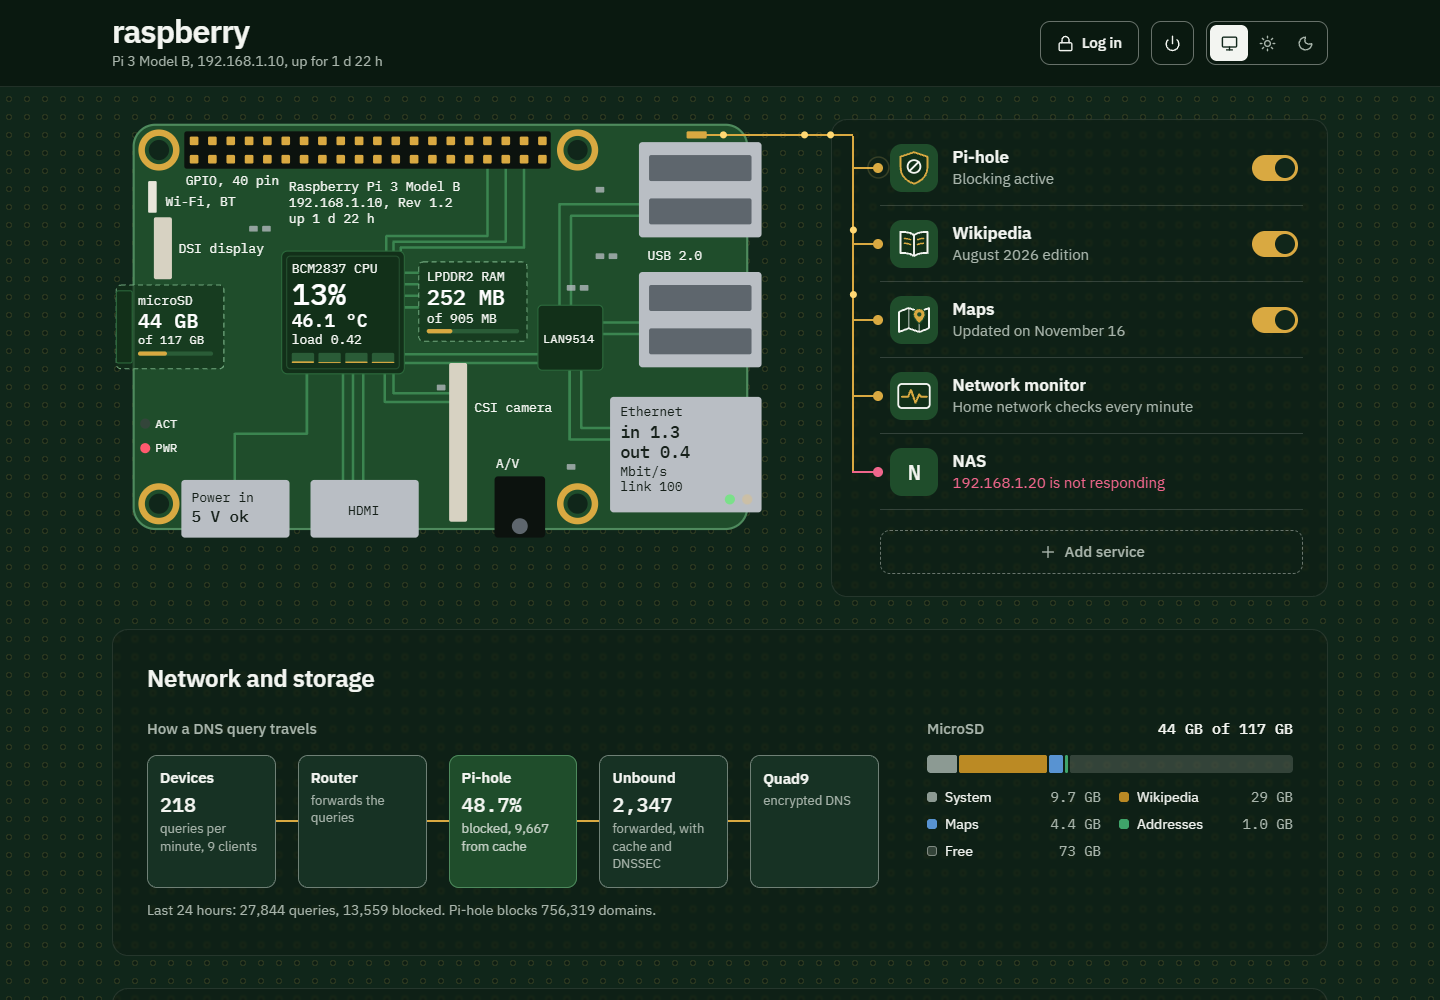
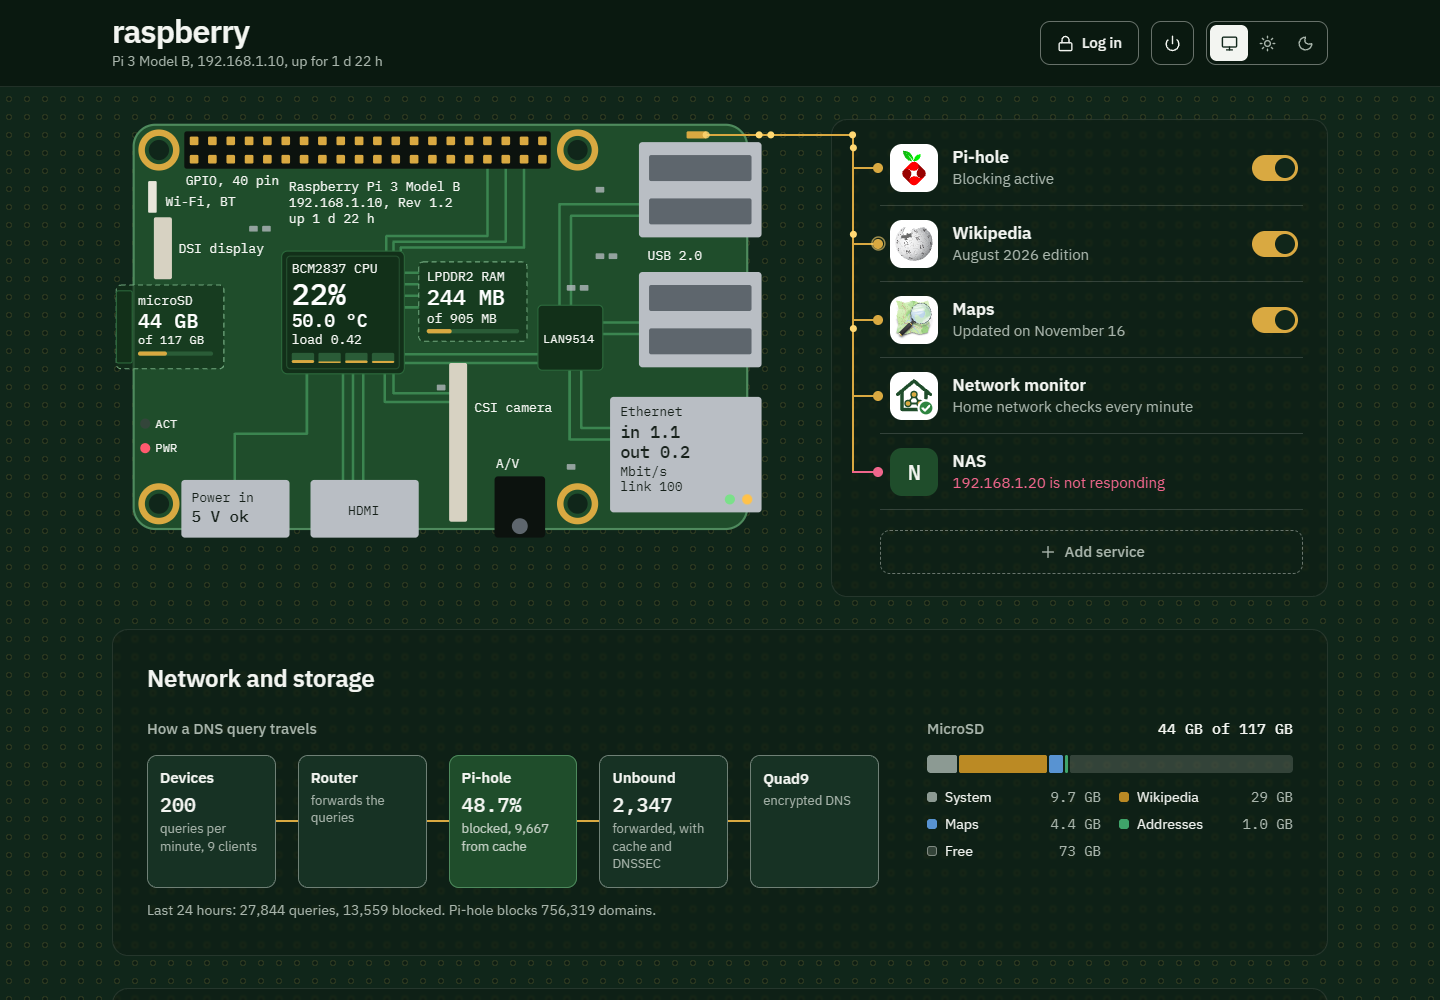
feat(hub): the detailed Raspberry Pi board on phones too (#59)
On phones the home page showed a compact board with five readings. It now
shows the detailed board of the desktop, turned vertical like on the
hardware page, and still opens the hardware page when tapped.

Only the CPU and temperature numbers are drawn again while they glide to a
new value, not the whole board: the home page now holds two detailed boards.

Tests: route handlers are removed at the end of each test, so one still
reading a response when the context closes no longer fails it; going back
after an update moves the fake clock by two checks.

README screenshots refreshed (phone board, official logos of 2.2.2).

diff --git a/hub/components/Board.tsx b/hub/components/Board.tsx
@@ -141,6 +141,12 @@ function useSmoothValue(value: number | null | undefined): number | null {
   return shown;
 }
 
+/** A reading that glides to its new value. Only this text is drawn again on every frame of the glide, not the
+ *  whole board: the home page has two boards (one hidden, for the other screen size). */
+function Smooth({ value, format }: { value: number | null | undefined; format: (shown: number | null) => string }) {
+  return <>{format(useSmoothValue(value))}</>;
+}
+
 function megabit(bps: number): string {
   const mbit = bps / 1_000_000;
   if (mbit >= 100) return mbit.toFixed(0);
@@ -150,8 +156,6 @@ function megabit(bps: number): string {
 }
 
 function Drawing({ g, s, orientation, cable = false }: { g: Geometry; s: SystemInfo | null; orientation: Orientation; cable?: boolean }) {
-  const cpu = useSmoothValue(s?.cpu.usage);
-  const temp = useSmoothValue(s?.temp);
   const vert = orientation === "vertical";
   const L = g.label;
   const used = s ? bytes(s.mem.used, "en") : null;
@@ -266,10 +270,10 @@ function Drawing({ g, s, orientation, cable = false }: { g: Geometry; s: SystemI
       <rect className="s-chip-edge" x={soc.x + 7} y={soc.y + 7} width={soc.w - 14} height={soc.h - 14} rx="5" />
       <text className="s-label" x={soc.x + 14} y={soc.y + 30} fontSize={L}>BCM2837 CPU</text>
       <text className="s-value" x={soc.x + 14} y={soc.y + 74} fontSize="42">
-        {cpu === null ? "–" : `${Math.round(cpu)}%`}
+        <Smooth value={s?.cpu.usage} format={(cpu) => (cpu === null ? "–" : `${Math.round(cpu)}%`)} />
       </text>
       <text className={`s-value${hot ? " fault" : ""}`} x={soc.x + 14} y={soc.y + 105} fontSize="25">
-        {temp === null ? "– °C" : `${temp.toFixed(1)} °C`}
+        <Smooth value={s?.temp} format={(temp) => (temp === null ? "– °C" : `${temp.toFixed(1)} °C`)} />
       </text>
       <text className="s-label" x={soc.x + 14} y={soc.y + 129} fontSize={L}>
         {s ? `load ${s.cpu.load[0].toFixed(2)}` : ""}
@@ -375,70 +379,4 @@ export function Board({ orientation = "horizontal", cable = false }: { orientati
     );
   }
   return <Drawing g={orientation === "vertical" ? VERTICAL : HORIZONTAL} s={system} orientation={orientation} cable={cable} />;
-}
-
-/** The compact board for phones: same main components, only the five readings. */
-export function CompactBoard() {
-  const { system: s } = useHub();
-  const cpu = useSmoothValue(s?.cpu.usage);
-  const temp = useSmoothValue(s?.temp);
-  const used = s ? bytes(s.mem.used, "en") : null;
-  const disk = s ? bytes(s.disk.used, "en") : null;
-  const hot = s?.alerts.includes("temperature") ?? false;
-  const full = s?.alerts.includes("disk") ?? false;
-  const powerFault = Boolean(s?.power && (s.power.undervoltage || s.power.throttled));
-  const voltage = s?.power ? (s.power.undervoltage ? "low volt" : s.power.throttled ? "throttled" : "5 V ok") : "5 V";
-  const description = s
-    ? `Raspberry Pi board. CPU ${Math.round(s.cpu.usage)} percent, ${s.temp ?? "unknown"} degrees Celsius. Memory ${used?.value} ${used?.unit}. ` +
-      `microSD ${disk?.value} ${disk?.unit} used. Ethernet in ${megabit(s.net.rx)}, out ${megabit(s.net.tx)} megabit per second. Power ${voltage}.`
-    : "Raspberry Pi board. Waiting for readings.";
-  return (
-    <svg className="board compact" viewBox="-1 -1 345 232" role="img" aria-label={description}>
-      <rect className="s-base" x="0" y="0" width="343" height="226" rx="11" />
-      <g className="s-traces thin">
-        {["M118 64V44H74V27", "M174 86H184", "M174 132H250V150H270", "M86 124H68V136H24V152", "M65 204V194H130V150", "M152 150V204"].map((d, i) => (
-          <path key={d} d={d} pathLength={1} style={{ animationDelay: `${100 + i * 70}ms` }} />
-        ))}
-      </g>
-      {[[16, 17], [246, 17], [16, 209], [246, 209]].map(([x, y]) => (
-        <g key={`${x}-${y}`}>
-          <circle className="s-ring thin" cx={x} cy={y} r="6.5" />
-          <circle className="s-hole" cx={x} cy={y} r="3.5" />
-        </g>
-      ))}
-      <rect className="s-black" x="30" y="8" width="204" height="18" rx="2" />
-      {Array.from({ length: 40 }, (_, i) => (
-        <rect key={i} className="s-gold" x={35 + Math.floor(i / 2) * 10} y={i % 2 === 0 ? 11 : 19} width="4.5" height="4.5" rx="0.8" />
-      ))}
-
-      <rect className={`s-chip${hot ? " fault" : ""}`} x="86" y="64" width="88" height="86" rx="5" />
-      <text className="s-label" x="95" y="82" fontSize="11.5">CPU</text>
-      <text className="s-value" x="95" y="110" fontSize="23">{cpu === null ? "–" : `${Math.round(cpu)}%`}</text>
-      <text className={`s-value${hot ? " fault" : ""}`} x="95" y="134" fontSize="15">
-        {temp === null ? "– °C" : `${Math.round(temp)} °C`}
-      </text>
-
-      <rect className="s-underside" x="184" y="64" width="78" height="54" rx="4" />
-      <text className="s-label" x="191" y="82" fontSize="11.5">RAM</text>
-      <text className="s-value" x="191" y="104" fontSize="15">{used ? `${used.value} ${used.unit}` : "–"}</text>
-
-      <rect className="s-tin" x="282" y="32" width="62" height="34" rx="3" />
-      <rect className="s-tin" x="282" y="74" width="62" height="34" rx="3" />
-      <rect className="s-tin" x="270" y="122" width="74" height="78" rx="3" />
-      <text className="s-on-tin" x="277" y="140" fontSize="11.5">LAN</text>
-      <text className="s-on-tin strong" x="277" y="160" fontSize="13">in {s ? megabit(s.net.rx) : "–"}</text>
-      <text className="s-on-tin strong" x="277" y="178" fontSize="13">out {s ? megabit(s.net.tx) : "–"}</text>
-      <text className="s-on-tin" x="277" y="194" fontSize="11">Mbit/s</text>
-
-      <rect className={`s-underside${full ? " fault" : ""}`} x="-1" y="152" width="80" height="42" rx="3" />
-      <rect className="s-chip" x="-1" y="158" width="8" height="30" rx="1.5" />
-      <text className="s-label" x="14" y="169" fontSize="11.5">microSD</text>
-      <text className={`s-value${full ? " fault" : ""}`} x="14" y="187" fontSize="15">{disk ? `${disk.value} ${disk.unit}` : "–"}</text>
-
-      <rect className="s-tin" x="36" y="204" width="58" height="24" rx="3" />
-      <text className={`s-on-tin strong${powerFault ? " fault" : ""}`} x="42" y="220" fontSize="12.5">{voltage}</text>
-      <rect className="s-tin" x="126" y="204" width="58" height="24" rx="3" />
-      <text className="s-label" x="258" y="220" fontSize="11.5">{s ? `up ${duration(s.uptime, "en")}` : ""}</text>
-    </svg>
-  );
 }

diff --git a/hub/app/globals.css b/hub/app/globals.css
@@ -427,10 +427,6 @@ input {
   stroke-width: 3;
 }
 
-.board.compact .s-base {
-  stroke-width: 1.5;
-}
-
 .s-traces path {
   fill: none;
   stroke: var(--pcb-trace);
@@ -440,10 +436,6 @@ input {
   stroke-dasharray: 1;
   stroke-dashoffset: 1;
   animation: trace-draw 0.9s cubic-bezier(0.3, 0, 0.2, 1) forwards;
-}
-
-.s-traces.thin path {
-  stroke-width: 1.6;
 }
 
 @keyframes trace-draw {
@@ -456,10 +448,6 @@ input {
   fill: var(--pcb);
   stroke: var(--pcb-gold);
   stroke-width: 9;
-}
-
-.s-ring.thin {
-  stroke-width: 3;
 }
 
 .s-hole {
@@ -529,11 +517,6 @@ input {
   stroke: #6fa67c;
   stroke-width: 1.5;
   stroke-dasharray: 7 5;
-}
-
-.board.compact .s-underside {
-  stroke-width: 0.9;
-  stroke-dasharray: 3 2.2;
 }
 
 .s-underside.fault {

diff --git a/hub/tests/upgrade.spec.ts b/hub/tests/upgrade.spec.ts
@@ -147,10 +147,11 @@ test.describe("New version", () => {
     await dialog.getByRole("button", { name: `Go back to ${installed}` }).click();
     await expect(dialog.getByRole("status")).toContainText(`Going back to ${installed}`);
     expect(pi.rolledBack).toBe(installed);
-    // the Raspberry Pi answers with the old version again: its website is loaded
+    // the Raspberry Pi answers with the old version again: its website is loaded. The dialog checks every 5
+    // seconds from just after "Going back" appears, so the clock moves on by two checks
     pi.installed = installed;
     const reloaded = page.waitForEvent("load");
-    await page.clock.runFor(5000);
+    await page.clock.runFor(10000);
     await reloaded;
   });
 

diff --git a/hub/app/page.tsx b/hub/app/page.tsx
@@ -1,4 +1,4 @@
-import { Board, CompactBoard } from "@/components/Board";
+import { Board } from "@/components/Board";
 import { BoardLink } from "@/components/BoardLink";
 import { Footer } from "@/components/Footer";
 import { Header } from "@/components/Header";
@@ -21,7 +21,7 @@ export default function Home() {
               <Board cable />
             </div>
             <BoardLink>
-              <CompactBoard />
+              <Board orientation="vertical" />
             </BoardLink>
           </div>
           <Services />

diff --git a/hub/components/BoardLink.tsx b/hub/components/BoardLink.tsx
@@ -4,7 +4,7 @@ import type { ReactNode } from "react";
 import Link from "next/link";
 import { useI18n } from "@/lib/i18n";
 
-/** On phones the compact board on the home page opens the hardware page. */
+/** On phones the board on the home page (the detailed one, turned vertical) opens the hardware page. */
 export function BoardLink({ children }: { children: ReactNode }) {
   const { t } = useI18n();
   return (

diff --git a/hub/tests/helpers.ts b/hub/tests/helpers.ts
@@ -13,6 +13,9 @@ export const test = base.extend({
       return response;
     };
     await use(page);
+    // the hub keeps polling until the very end: a page.route handler still reading a response when the
+    // browser context closes ("Response has been disposed") must not fail a test that already passed
+    await page.unrouteAll({ behavior: "ignoreErrors" });
   },
 });
 
